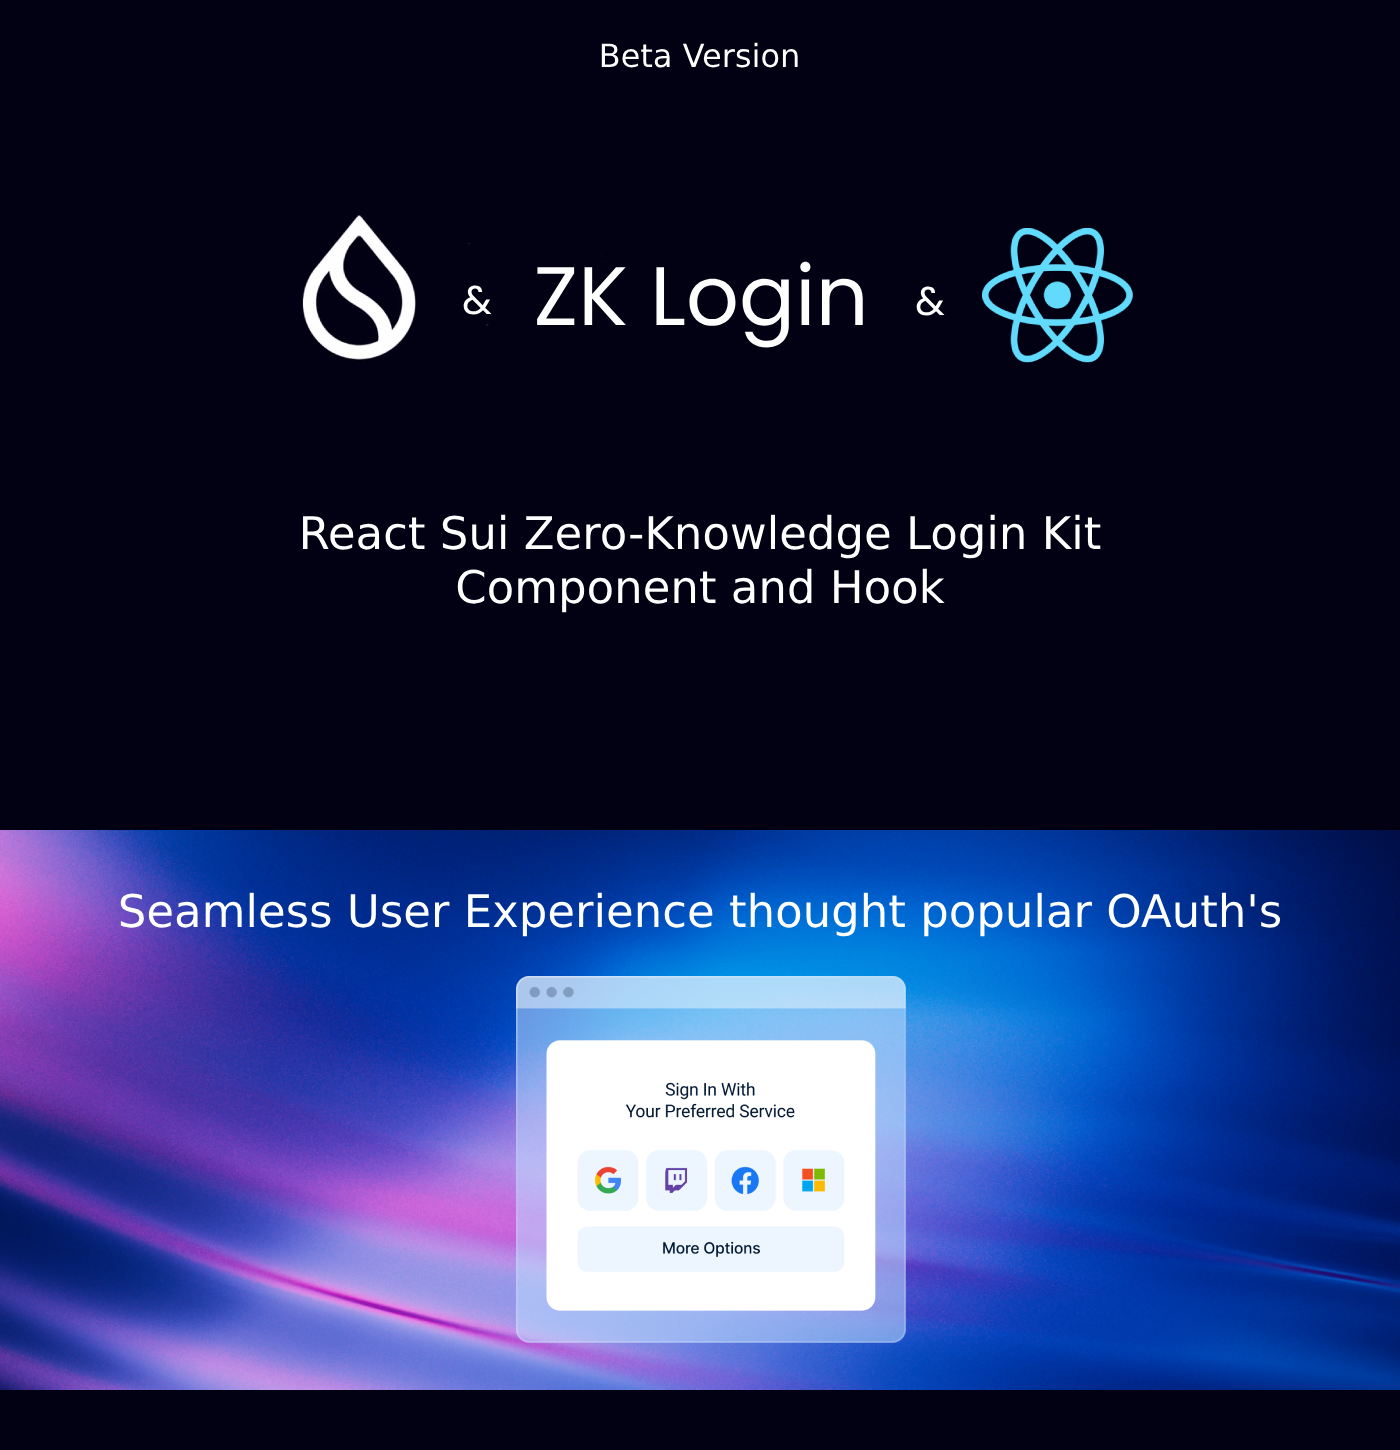
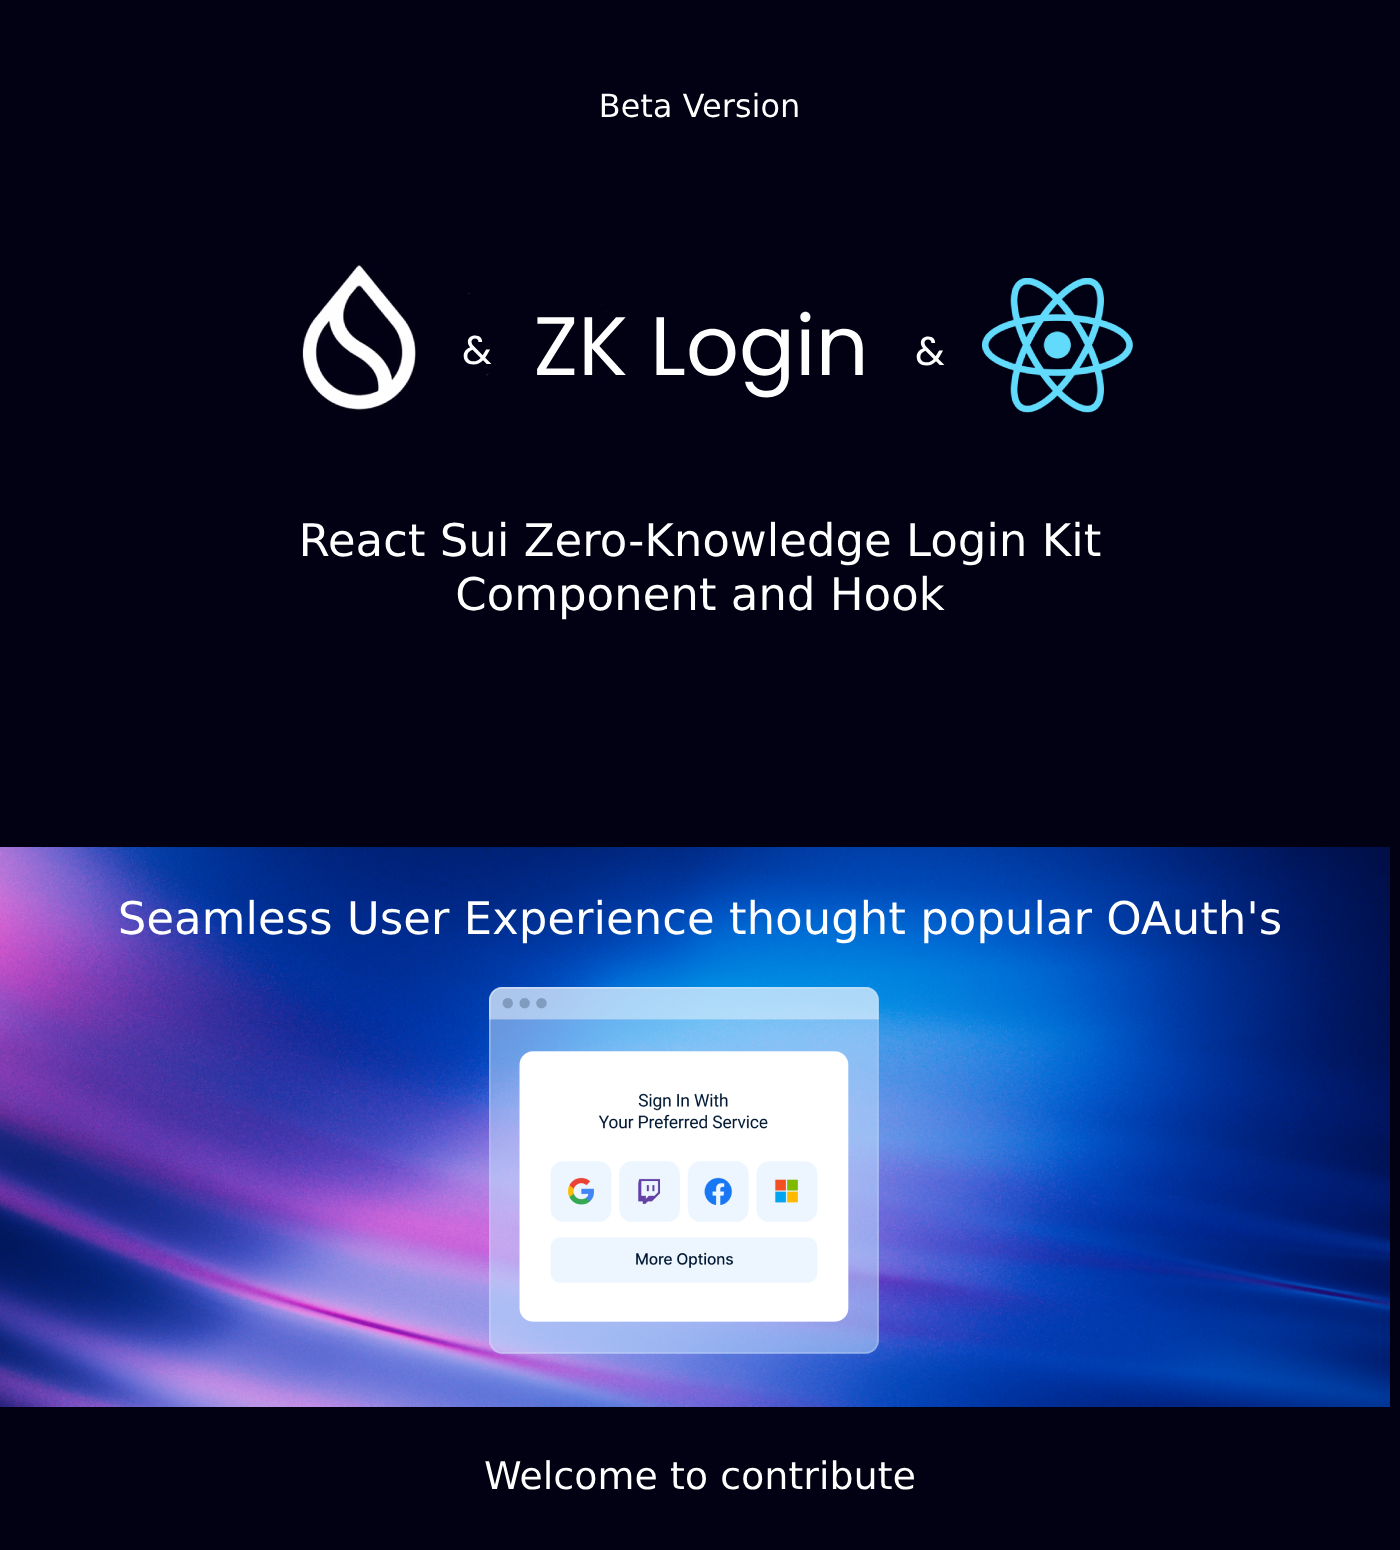
update images and version, fix error handling

diff --git a/src/components/zk-login/zk-login.tsx b/src/components/zk-login/zk-login.tsx
@@ -28,6 +28,8 @@ interface ZKLoginProps {
     proverProvider: string;
     title?: string;
     subTitle?: string;
+    loadingText?: string;
+    errorText?: string;
     observeTokenInURL?: boolean;
 }
 
@@ -42,7 +44,9 @@ export const ZKLogin = (props: ZKLoginProps) => {
         observeTokenInURL = true,
         proverProvider,
         title = 'Sign In With',
-        subTitle = 'Your Preferred Service'
+        subTitle = 'Your Preferred Service',
+        loadingText = 'Loading ZK Proof ...',
+        errorText = 'Unfortunately, ZK Proof failed, please try again',
     } = props;
 
     const {client: suiClient} = useZKLoginContext();
@@ -56,6 +60,7 @@ export const ZKLogin = (props: ZKLoginProps) => {
     const {generateZkProof} = useZkProof();
 
     const [loading, setLoading] = useState(false);
+    const [showError, setShowError] = useState(false);
 
     // Step 1
     useEffect(() => {
@@ -90,33 +95,41 @@ export const ZKLogin = (props: ZKLoginProps) => {
     // Step 4
     useEffect(() => {
         const zkProof = async () => {
-            if (userSalt && encodedJwt && ephemeralKeyPair) {
-                setLoading(true);
-                const extendedPublicKey = getExtendedEphemeralPublicKey(
-                    ephemeralKeyPair.getPublicKey()
-                );
-                const {epoch} = await suiClient.getLatestSuiSystemState();
+            try {
+                if (userSalt && encodedJwt && ephemeralKeyPair) {
+                    setLoading(true);
+                    setShowError(false);
+                    const extendedPublicKey = getExtendedEphemeralPublicKey(
+                        ephemeralKeyPair.getPublicKey()
+                    );
+                    const {epoch} = await suiClient.getLatestSuiSystemState();
 
-                const maxEpoch = Number(epoch) + 2; // live 2 epochs
+                    const maxEpoch = Number(epoch) + 2; // live 2 epochs
 
-                const result = await generateZkProof(proverProvider, {
-                    jwt: encodedJwt,
-                    extendedEphemeralPublicKey: extendedPublicKey,
-                    maxEpoch,
-                    jwtRandomness: randomness,
-                    salt: userSalt,
-                    keyClaimName: "sub",
-                });
+                    const result = await generateZkProof(proverProvider, {
+                        jwt: encodedJwt,
+                        extendedEphemeralPublicKey: extendedPublicKey,
+                        maxEpoch,
+                        jwtRandomness: randomness,
+                        salt: userSalt,
+                        keyClaimName: "sub",
+                    });
 
-                if (result && result.proofPoints) {
-                    generateZkLoginAddress(encodedJwt, userSalt);
-                    setLoading(false);
-                    removeHash();
+                    if (result && result.proofPoints) {
+                        generateZkLoginAddress(encodedJwt, userSalt);
+                        setLoading(false);
+                        removeHash();
+                    }
                 }
+            } catch (error) {
+                console.error('Error User Salt Proof ZK Login component', error);
+                setLoading(false);
+                setShowError(true);
+                removeHash();
             }
         };
 
-        zkProof().catch((error) => console.error('Error User Salt Proof ZK Login component', error));
+        zkProof();
     }, [setUserSalt, userSalt, ephemeralKeyPair]);
 
     const providerList = useMemo(() => Object.entries(providers), [providers]);
@@ -176,7 +189,14 @@ export const ZKLogin = (props: ZKLoginProps) => {
             {/*If have JWT and no userSalt*/}
             {loading && (
                 <Typography>
-                    Loading ZK Proof ...
+                    {loadingText}
+                </Typography>
+            )}
+
+            {/*If have JWT and no userSalt*/}
+            {showError && (
+                <Typography>
+                    {errorText}
                 </Typography>
             )}
 

diff --git a/readme.md b/readme.md
@@ -102,7 +102,6 @@ export const Content = () => {
     return (
         <ZKLogin
             providers={providers}
-            userSalt={userSalt}
             proverProvider={SUI_PROVER_ENDPOINT}
         />
     )
